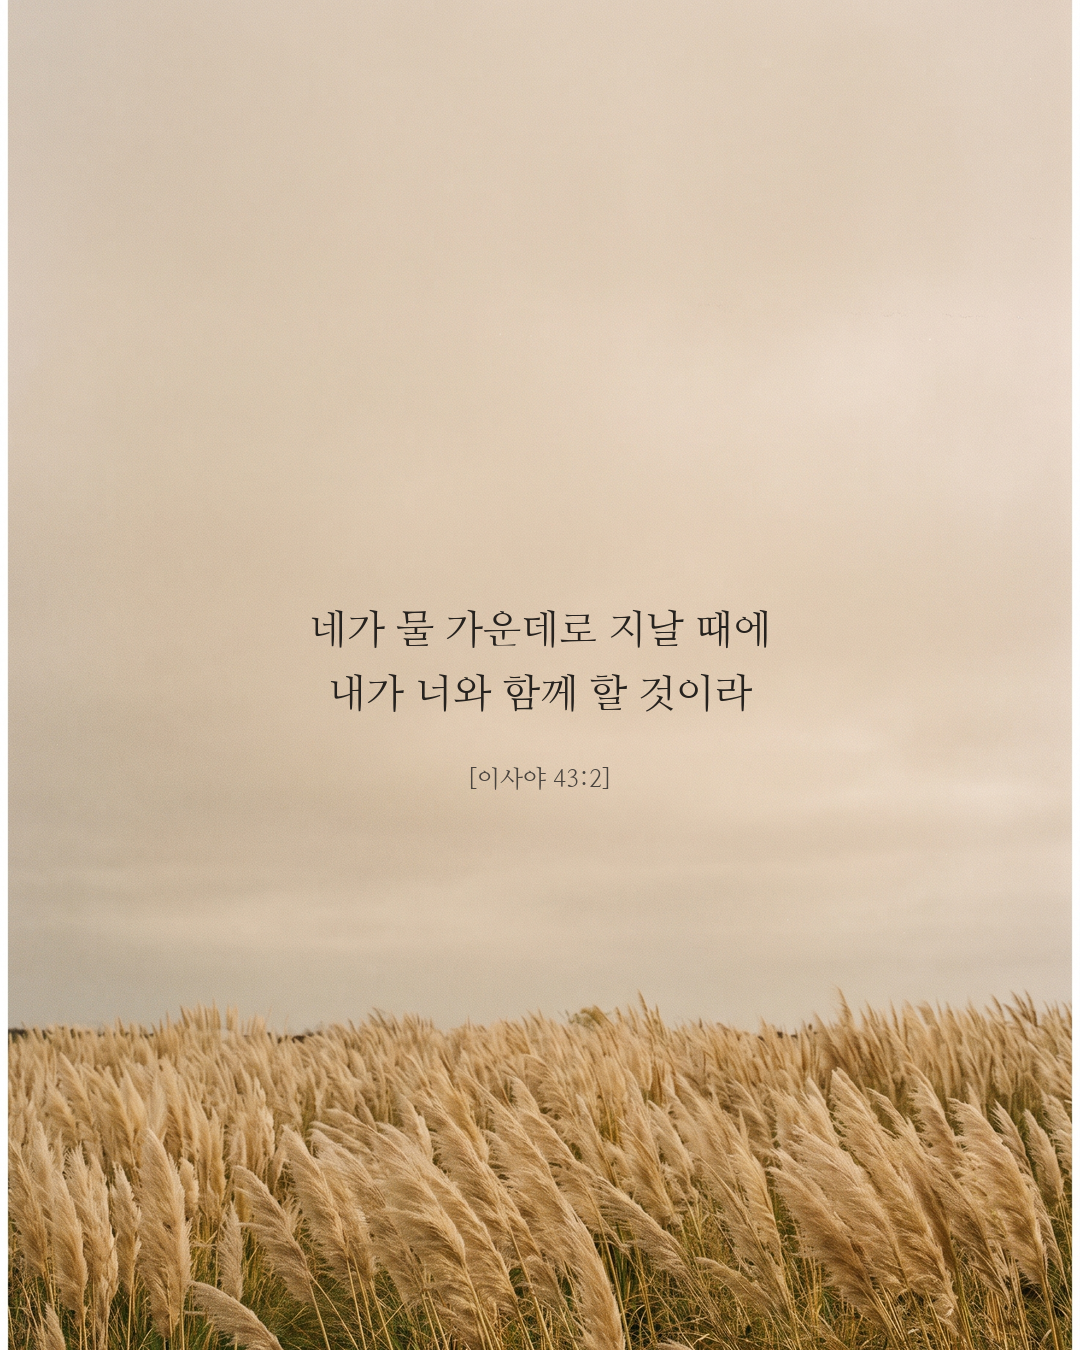
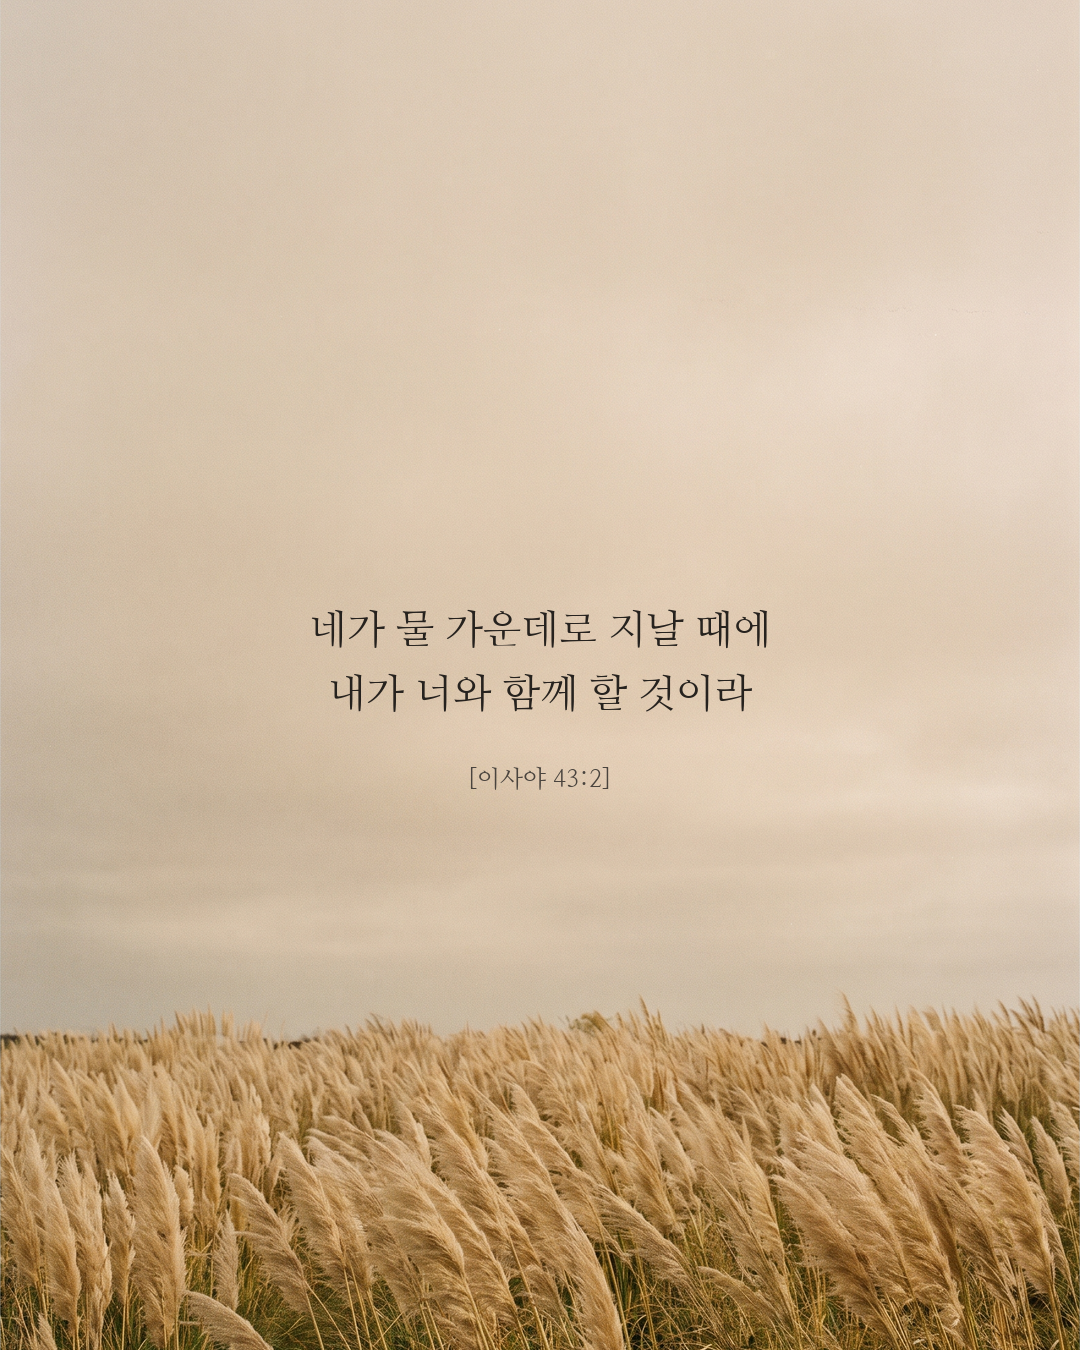
re-render gallery: trim white borders

Changed region(s): [[0.0, 0.0, 1.0, 1.0]]

diff --git a/docs/index.html b/docs/index.html
@@ -1,20 +1,20 @@
-<!doctype html><meta charset="utf-8"><meta name="viewport" content="width=device-width,initial-scale=1"><title>빛으로 미리보기</title><style>body{margin:0;background:#111;font-family:-apple-system,sans-serif}h2{color:#eee;padding:14px 12px 4px;margin:0;font-weight:600}p.sub{color:#888;padding:0 12px 12px;margin:0;font-size:13px}figure{margin:0 0 26px}img{width:100%;display:block}figcaption{color:#888;font-size:12px;padding:6px 12px}</style><h2>빛으로 · 미리보기</h2><p class="sub">맨 위가 최신 ↑</p><figure><img src="img/0020-이사야_43-2.png?v=1782976313" loading="lazy"><figcaption>0020-이사야_43-2</figcaption></figure>
-<figure><img src="img/0019-갈라디아서_5-22.png?v=1782976313" loading="lazy"><figcaption>0019-갈라디아서_5-22</figcaption></figure>
-<figure><img src="img/0018-시편_42-11.png?v=1782976312" loading="lazy"><figcaption>0018-시편_42-11</figcaption></figure>
-<figure><img src="img/0017-시편_23-1.png?v=1782976312" loading="lazy"><figcaption>0017-시편_23-1</figcaption></figure>
-<figure><img src="img/0016-시편_46-10.png?v=1782976312" loading="lazy"><figcaption>0016-시편_46-10</figcaption></figure>
-<figure><img src="img/0015-예레미야_29-11.png?v=1782976312" loading="lazy"><figcaption>0015-예레미야_29-11</figcaption></figure>
-<figure><img src="img/0014-시편_121-2.png?v=1782976312" loading="lazy"><figcaption>0014-시편_121-2</figcaption></figure>
-<figure><img src="img/0013-빌립보서_4-6.png?v=1782976311" loading="lazy"><figcaption>0013-빌립보서_4-6</figcaption></figure>
-<figure><img src="img/0012-시편_1-2.png?v=1782976311" loading="lazy"><figcaption>0012-시편_1-2</figcaption></figure>
-<figure><img src="img/0011-빌립보서_4-7.png?v=1782976311" loading="lazy"><figcaption>0011-빌립보서_4-7</figcaption></figure>
-<figure><img src="img/0010-고린도전서_13-13.png?v=1782976310" loading="lazy"><figcaption>0010-고린도전서_13-13</figcaption></figure>
-<figure><img src="img/0009-시편_27-1.png?v=1782976310" loading="lazy"><figcaption>0009-시편_27-1</figcaption></figure>
-<figure><img src="img/0008-시편_126-5.png?v=1782976310" loading="lazy"><figcaption>0008-시편_126-5</figcaption></figure>
-<figure><img src="img/0007-마태복음_11-28.png?v=1782976310" loading="lazy"><figcaption>0007-마태복음_11-28</figcaption></figure>
-<figure><img src="img/0006-이사야_41-10.png?v=1782976310" loading="lazy"><figcaption>0006-이사야_41-10</figcaption></figure>
-<figure><img src="img/0005-히브리서_13-8.png?v=1782976309" loading="lazy"><figcaption>0005-히브리서_13-8</figcaption></figure>
-<figure><img src="img/0004-갈라디아서_2-20.png?v=1782976309" loading="lazy"><figcaption>0004-갈라디아서_2-20</figcaption></figure>
-<figure><img src="img/0003-빌립보서_4-13.png?v=1782976309" loading="lazy"><figcaption>0003-빌립보서_4-13</figcaption></figure>
-<figure><img src="img/0002-시편_19-1.png?v=1782976309" loading="lazy"><figcaption>0002-시편_19-1</figcaption></figure>
-<figure><img src="img/0001-시편_34-8.png?v=1782976309" loading="lazy"><figcaption>0001-시편_34-8</figcaption></figure>
+<!doctype html><meta charset="utf-8"><meta name="viewport" content="width=device-width,initial-scale=1"><title>빛으로 미리보기</title><style>body{margin:0;background:#111;font-family:-apple-system,sans-serif}h2{color:#eee;padding:14px 12px 4px;margin:0;font-weight:600}p.sub{color:#888;padding:0 12px 12px;margin:0;font-size:13px}figure{margin:0 0 26px}img{width:100%;display:block}figcaption{color:#888;font-size:12px;padding:6px 12px}</style><h2>빛으로 · 미리보기</h2><p class="sub">맨 위가 최신 ↑</p><figure><img src="img/0020-이사야_43-2.png?v=1782976587" loading="lazy"><figcaption>0020-이사야_43-2</figcaption></figure>
+<figure><img src="img/0019-갈라디아서_5-22.png?v=1782976587" loading="lazy"><figcaption>0019-갈라디아서_5-22</figcaption></figure>
+<figure><img src="img/0018-시편_42-11.png?v=1782976586" loading="lazy"><figcaption>0018-시편_42-11</figcaption></figure>
+<figure><img src="img/0017-시편_23-1.png?v=1782976586" loading="lazy"><figcaption>0017-시편_23-1</figcaption></figure>
+<figure><img src="img/0016-시편_46-10.png?v=1782976586" loading="lazy"><figcaption>0016-시편_46-10</figcaption></figure>
+<figure><img src="img/0015-예레미야_29-11.png?v=1782976586" loading="lazy"><figcaption>0015-예레미야_29-11</figcaption></figure>
+<figure><img src="img/0014-시편_121-2.png?v=1782976586" loading="lazy"><figcaption>0014-시편_121-2</figcaption></figure>
+<figure><img src="img/0013-빌립보서_4-6.png?v=1782976586" loading="lazy"><figcaption>0013-빌립보서_4-6</figcaption></figure>
+<figure><img src="img/0012-시편_1-2.png?v=1782976585" loading="lazy"><figcaption>0012-시편_1-2</figcaption></figure>
+<figure><img src="img/0011-빌립보서_4-7.png?v=1782976585" loading="lazy"><figcaption>0011-빌립보서_4-7</figcaption></figure>
+<figure><img src="img/0010-고린도전서_13-13.png?v=1782976584" loading="lazy"><figcaption>0010-고린도전서_13-13</figcaption></figure>
+<figure><img src="img/0009-시편_27-1.png?v=1782976584" loading="lazy"><figcaption>0009-시편_27-1</figcaption></figure>
+<figure><img src="img/0008-시편_126-5.png?v=1782976584" loading="lazy"><figcaption>0008-시편_126-5</figcaption></figure>
+<figure><img src="img/0007-마태복음_11-28.png?v=1782976584" loading="lazy"><figcaption>0007-마태복음_11-28</figcaption></figure>
+<figure><img src="img/0006-이사야_41-10.png?v=1782976584" loading="lazy"><figcaption>0006-이사야_41-10</figcaption></figure>
+<figure><img src="img/0005-히브리서_13-8.png?v=1782976583" loading="lazy"><figcaption>0005-히브리서_13-8</figcaption></figure>
+<figure><img src="img/0004-갈라디아서_2-20.png?v=1782976583" loading="lazy"><figcaption>0004-갈라디아서_2-20</figcaption></figure>
+<figure><img src="img/0003-빌립보서_4-13.png?v=1782976583" loading="lazy"><figcaption>0003-빌립보서_4-13</figcaption></figure>
+<figure><img src="img/0002-시편_19-1.png?v=1782976583" loading="lazy"><figcaption>0002-시편_19-1</figcaption></figure>
+<figure><img src="img/0001-시편_34-8.png?v=1782976583" loading="lazy"><figcaption>0001-시편_34-8</figcaption></figure>